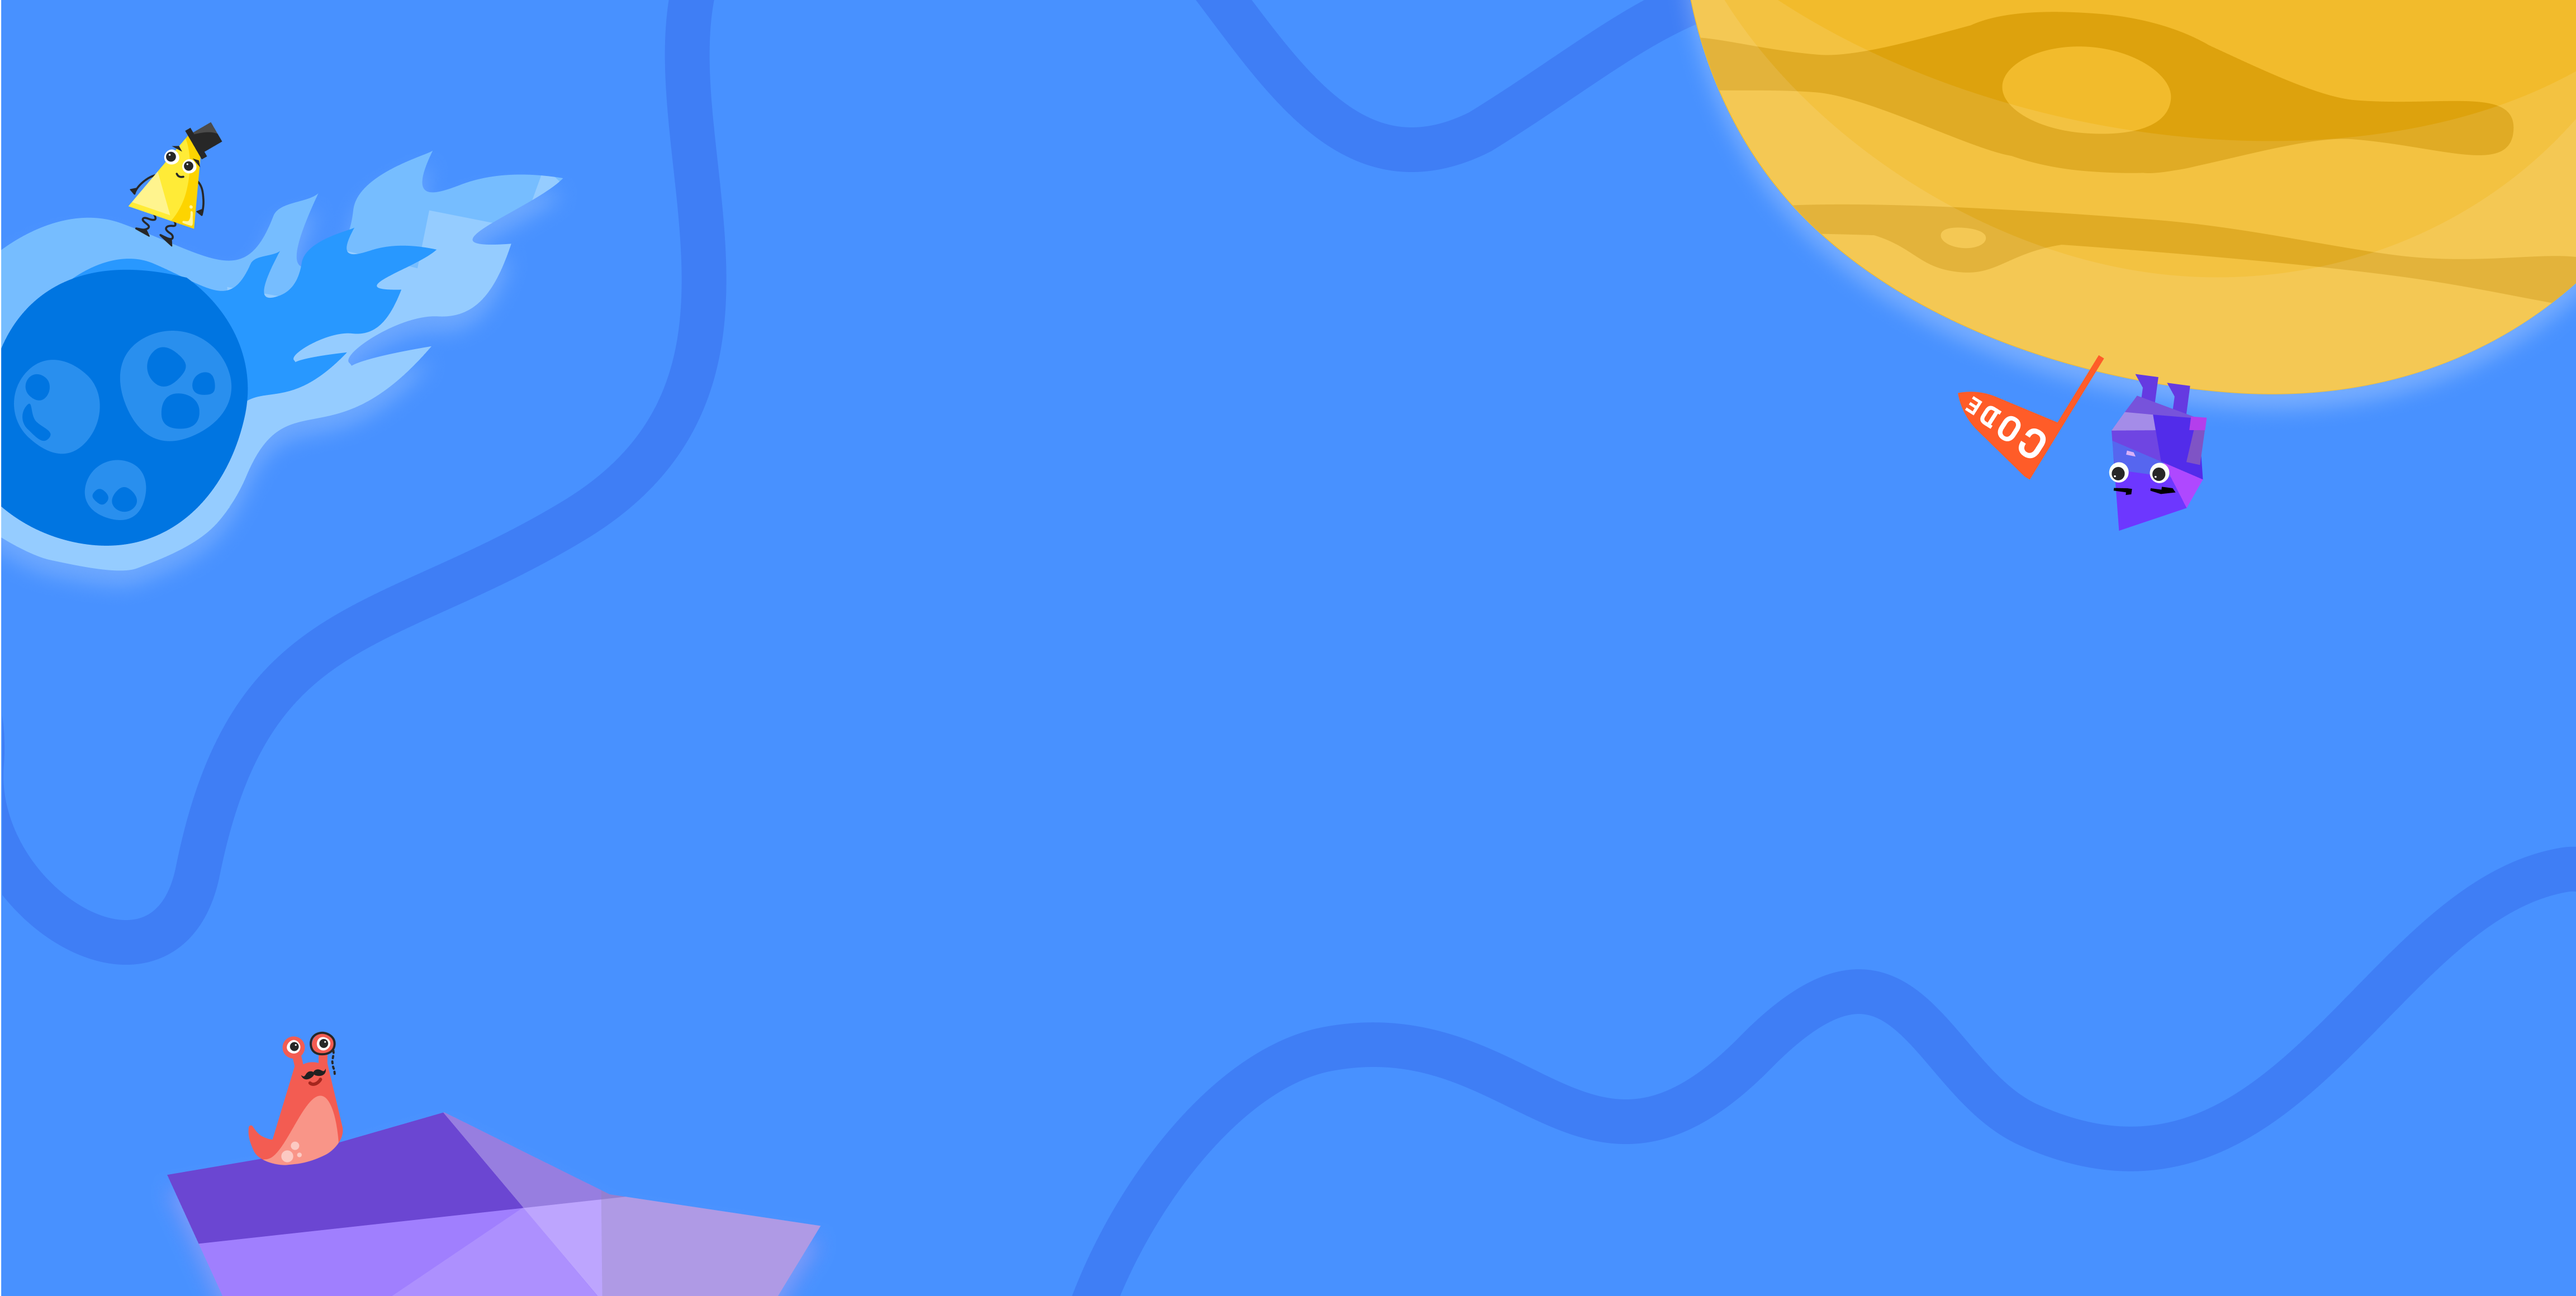
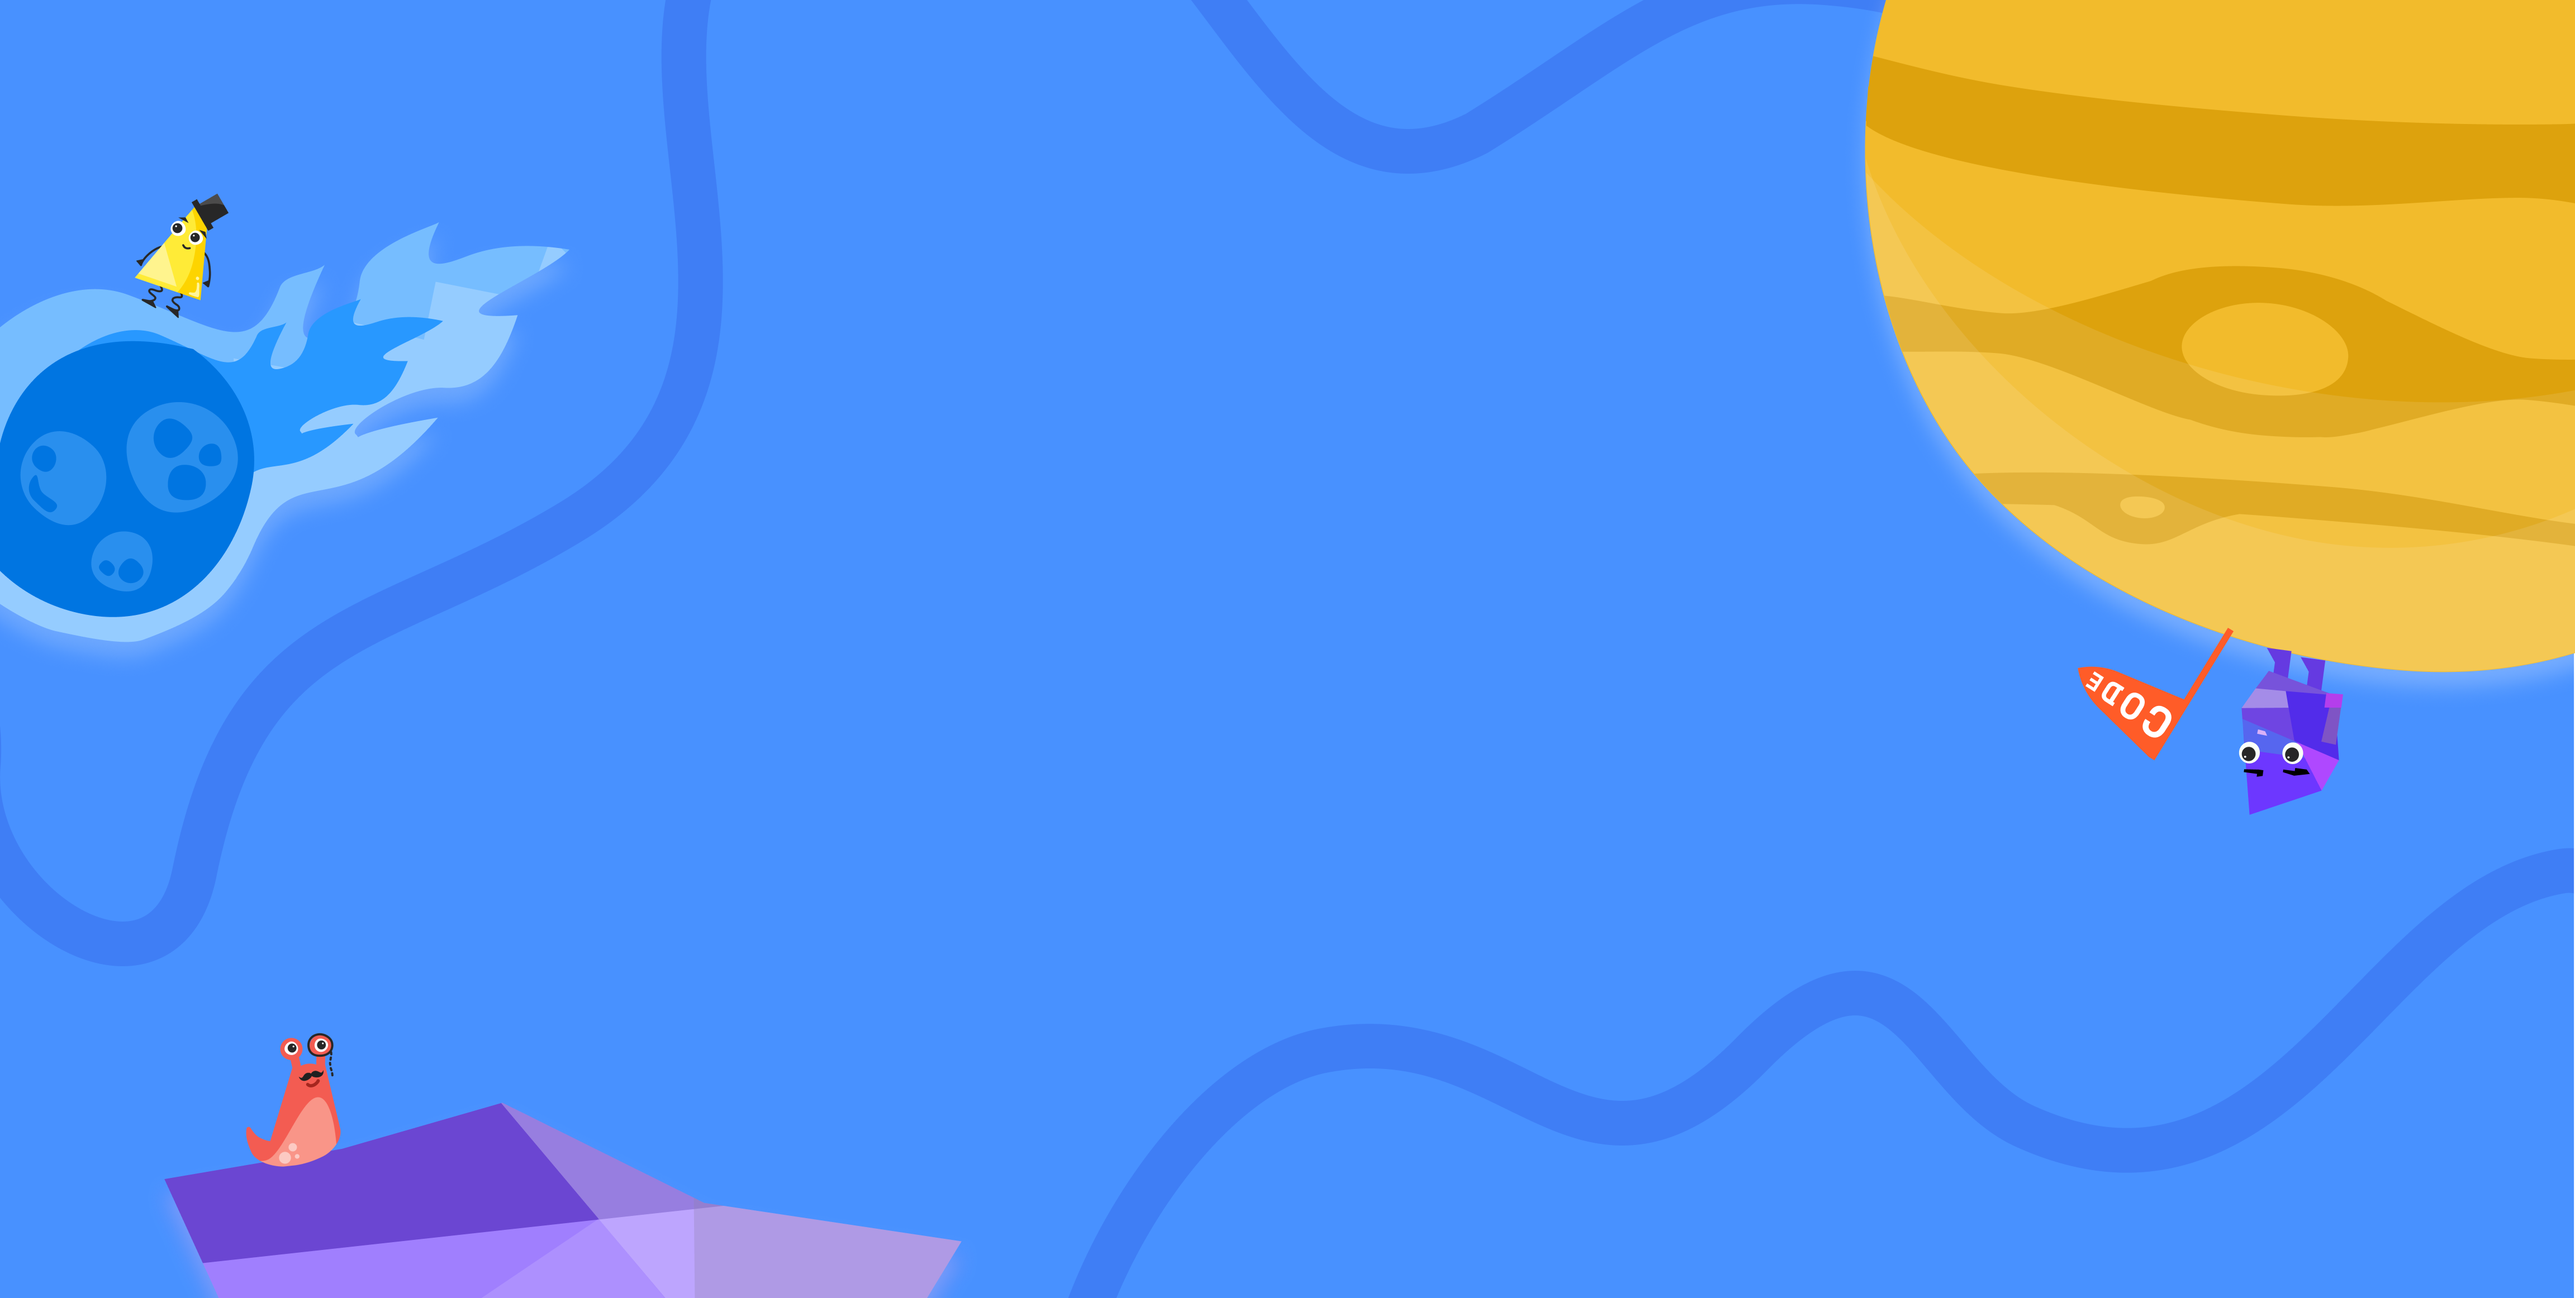
Revise and update home page, add nav bar

diff --git a/newSite/main.css b/newSite/main.css
@@ -12,113 +12,171 @@ html {
   background: #FBFBFD;
 }
 
-body {
+*{
+  font-family: 'Space Mono';
   margin: 0;
+  padding: 0;
+
 }
 
 /* NAV BAR */
 
-.mobile-menu-bar {
-  display: flex;
-  justify-content: space-between;
-  width: 100%;
-}
 
-.mobile-menu-bar img {
-  width: 40px;
-  height: 40px;
-  padding: 10px;
-}
-
-.mobile-expanded-bar {
-  background: blue;
-}
-
-nav.menu {
-  display: block;
-}
 
 /* LANDING */
 
-.landing {
-  background-image: url("home-background-mobile.png");
-  background-repeat: no-repeat;
-  background-size: 100%;
-  text-align: center;
-}
-
-.landing h1 {
-  font-family: 'Space Mono';
-  font-weight: bold;
-  font-style: italic;
-  color: white;
-  font-size: 4em;
-  padding: 0 20px;
-  line-height: 1.2em;
+ul {
+  position: absolute;
+  display: block;
+  width: 100%;
+  top: 0;
+  list-style-type: none;
   margin: 0;
+  overflow: hidden;
 }
 
-.landing h2 {
-  font-family: 'Work Sans';
-  font-weight: normal;
-  font-size: 19px;
+#favicon{
+  margin: 20px 15px 15px 20px;
+  width: 40px;
+}
+
+li a {
+  display: block;
+  vertical-align: middle;
   color: white;
-  width: 65vw;
-  margin: 0 auto;
-  line-height: 22px;
-  padding-top: 30px;
-  padding-bottom: 120px;
+  text-align: center;
+  vertical-align: middle;
+  font-size: 1.12rem;
+  font-weight: bold;
+  padding: 14px 16px;
+  text-decoration: none;
+}
+
+#flex{
+  margin-top: 10.5px;
+  margin-right: 15px;
+  display: flex;
+  justify-content: center;
+  align-items: center;
+}
+li {
+  float: left;
+}
+#flex li img{
+  max-width: 6px;
+  float: right;
+  padding: 0px 6px;
+  display: block;
+  margin-top: 10.5px;
+  margin: auto;
+}
+
+#landing {
+  background-image: url("img/home/home-background-desktop.png");
+  background-size: cover;
+  background-repeat: no-repeat;
+  height: 100%;
+  padding: 235px 0px;
+  position: relative;
+  top: 0px;
+}
+
+#initiative{
+  display: inline-flex;
+  justify-content: center;
+  flex-direction: row;
+  background-color: white;
+  margin-top: -30px;
+  margin-bottom: 15px;
+  border-radius: 100px;
+  padding: 8px 18px;
+  align-items: center;
+  vertical-align: middle;
+}
+#center{
+  display: flex;
+  align-items: center;
+  justify-content: center;
+}
+
+#initiative img{ 
+  width: 30px;
+  padding-right: 5px;
+}
+
+#initiative h4{
+  color: #3F7EF5;
+  font-size: 1.18rem;
+  font-style: italic;
+  font-weight: bold;
+}
+
+h1{
+  font-style: italic;
+  font-weight: bold;
+  font-size: 4.8rem;
+  color: #FFFFFF;
+  background-color: none;
+  margin-bottom: 5px;
   text-align: center;
 }
-
-#student-led {
-  margin-top: 140px;
-  margin-bottom: 10px;
-  width: 60%;
+h2{
+  font-size: 1.3rem;
+  width: 50%;
+  margin: 0 auto;
+  color: #FFFFFF;
+  text-align: center;
 }
 
 /* INFO */
 
-.info {
-  padding: 30px;
+#info-container {
+  margin: 0px 180px;
 }
 
-.info h3 {
+h3 {
   font-family: 'Space Mono';
   font-weight: bold;
-  font-size: 26px;
-  margin-top: 15px;
-  margin-bottom: 0px;
+  font-size: 1.8rem;
+  margin-top: 10px;
+  margin-bottom: 3px;
   color: #1540D9;
 }
 
-.info p {
+p {
   font-family: 'Work Sans';
   font-weight: normal;
-  font-size: 16px;
+  font-size: 1.1rem;
   color: #00034D;
+  width: 65vw;
 }
 
 #lex {
-  width: 30%;
-  margin-left: -8px;
+  margin-top: 50px;
+  max-width: 90px;
+  margin-bottom: -10px;
+  margin-left: -5px;
 }
 
 #pancho {
-  width: 30%;
-  margin-left: -4px;
+  max-width: 90px;
+  margin-left: -5px;
+  margin-bottom: -10px;
 }
 
 #explore-curriculum {
-  display: inline-block;
-  margin-top: 5px;
-  padding: 10px 20px;
-  background: #57D0FF;
-  border-radius: 7px;
   text-decoration: none;
-  color: white;
-  font-family: 'Space Mono';
+  color: #FFFFFF;
+  background-color: #24C2FF;
+  padding: 5px 15px;
+  border-radius: 7px;
+  font-style: italic;
   font-weight: bold;
+  transition: background-color 0.3s ease-in;
+}
+
+#explore-curriculum:hover{
+  background-color: #00ADF0;
 }
 
 /* RESPONSIVENESS */
@@ -131,7 +189,7 @@ nav.menu {
   }
 
   .landing {
-    background-image: url("home-background-desktop.png");
+    background-image: url("img/home/home-background-desktop.png");
   }
 
   .landing h2 {
@@ -167,10 +225,6 @@ nav.menu {
     width: 25%;
     margin-top: 150px;
     margin-bottom: 50px;
-  }
-
-  .landing {
-    background-image: url("home-background-desktop.png");
   }
 
   .landing h1 {

diff --git a/newSite/index.html b/newSite/index.html
@@ -10,28 +10,45 @@
   </head>
 
   <body>
-    <section class="landing">
-      <div class="mobile-menu-bar">
-        <img src="favicon.png"/>
-        <img id="menu-button" src="menu.png"/>
+    <div id = "landing">
+    <ul>
+      <li><img id = "favicon" src="img/general/favicon.png" alt="lightbulb"></li>
+      <div id = "flex"  style="float:right;">
+        <li><a class="active" href="/">HOME</a></li>
+        <li style="float:right"><div id = "center"><img src="img/home/circle.png" alt=""</div></li>
+        <li style="float:right"><a class="active" href="codethefuture.site/newSite/curriculum.html">CURRICULUM</a></li>
+        <li><img src="img/home/circle.png" alt=""></li>
+        <li style="float:right"><a class="active" href="codethefuture.site/newSite/about.html">ABOUT</a></li>
+        <li><img src="img/home/circle.png" alt=""></li>
+        <li style="float:right"><a class="active" href="codethefuture.site/newSite/contact.html">CONTACT</a></li>
       </div>
-      <img id="student-led" src="student-led-text.png"/>
+    </ul>
+      <div id = "center">
+        <div id = "initiative">
+          <img src="img/general/favicon.png" alt="lightbulb">
+          <h4> a student-led initiative</h4>
+        </div>
+      </div>
       <h1>Code The Future</h1>
       <h2>Empowering the next generation of coders through our technology-free coding curriculum</h2>
-    </section>
+    </div>
 
-    <div class="info-container">
-      <section class="info">
-        <img id="lex" src="who-are-we.png"/>
+    <div id = "info-container">
+      <div>
+        <img id="lex" src="img/home/who-are-we.png"/>
         <h3>Who are we?</h3>
         <p>Hey there! We’re a group of avid coders who believe that computer science should be available to everyone—not just those with access to technology. All of our curriculum is designed for computer-free fun. Happy learning! :^)</p>
-        <br><br>
-        <img id="pancho" src="learn-with-us.png"/>
+      </div>
+
+      <br><br>
+      <div>
+        <img id="pancho" src="img/home/learn-with-us.png"/>
         <h3>Learn with us!</h3>
-        <p>Ready to build your CS skills from the ground-up? Access our CS Fundamentals curriculum now!</p>
-        <a id="explore-curriculum" href="/curriculum">EXPLORE CURRICULUM</a>
-        <br><br><br><br><br><br>
-      </section>
+        <p style = "margin-bottom: 15px;">Ready to build your CS skills from the ground-up? Access our CS Fundamentals curriculum now!</p>
+        <a id="explore-curriculum" href="/curriculum">EXPLORE CURRICULUM -></a>
+      </div>
     </div>
+
+    <br><br><br><br><br><br>
   </body>
 </html>
